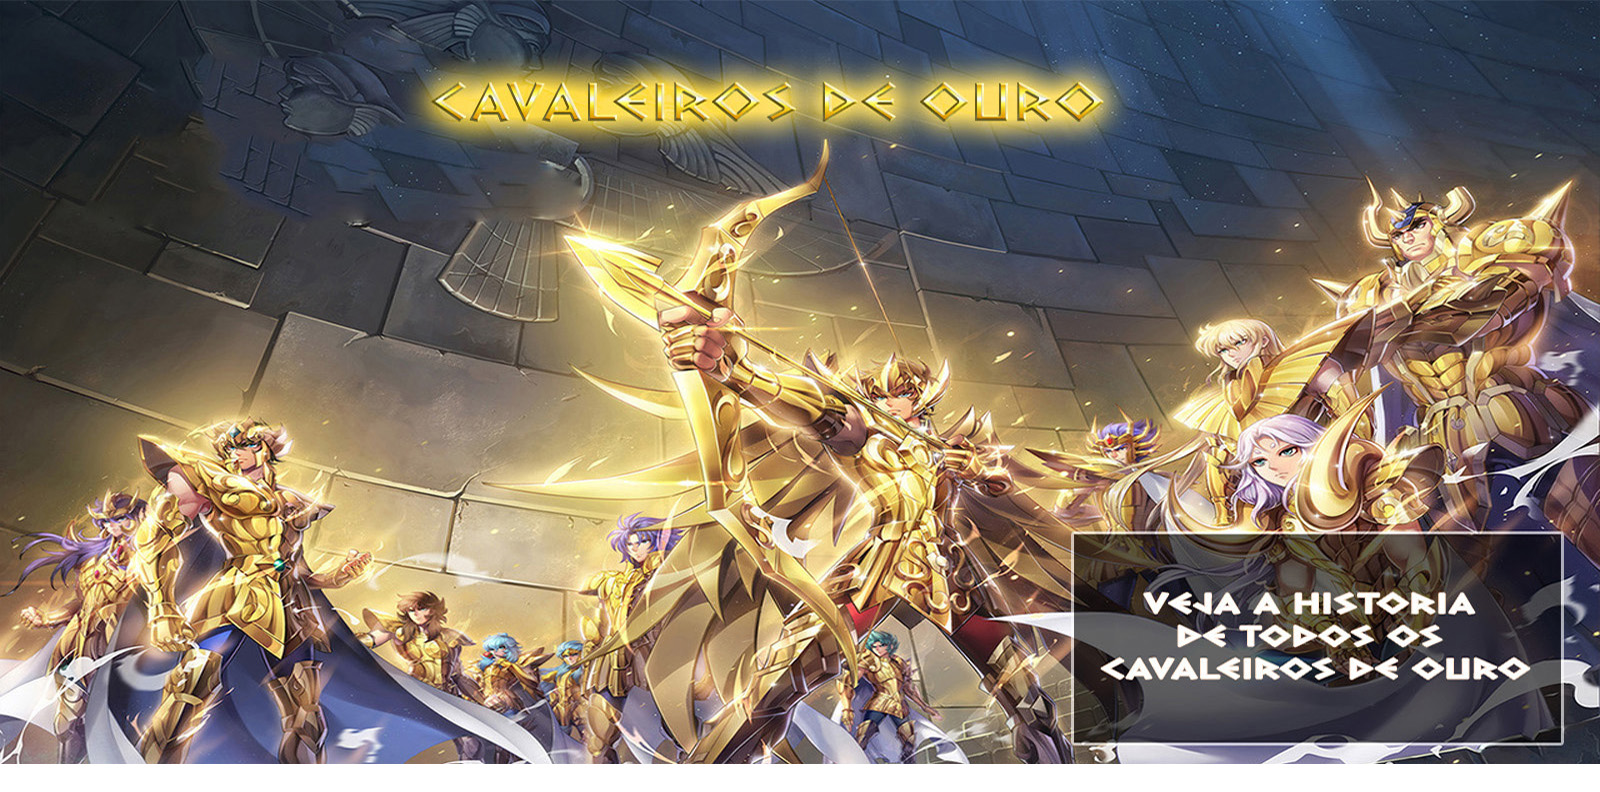
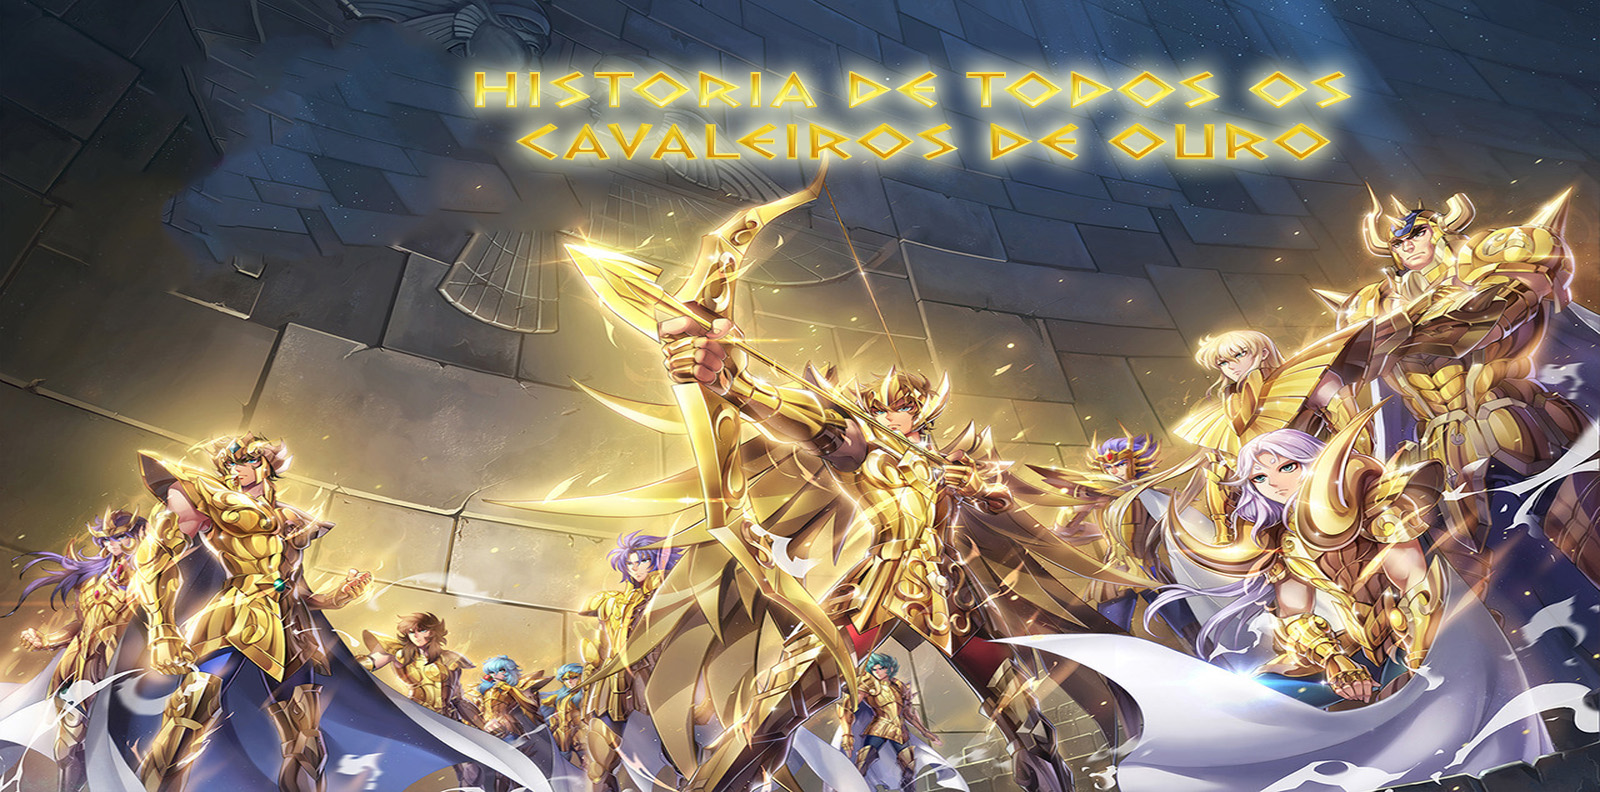
projeto-remodelado

diff --git a/modo-batalhaV3/index.html b/modo-batalhaV3/index.html
@@ -24,7 +24,9 @@
             </div>
         </div>
         </div>
+        <script src="script.js"></script>
     </main>
+    <script src="script.js"></script>
     <main class="modo-batalha">
         <main class="modo-versus modo-luta">
         <header class="cabecalho">
@@ -35,7 +37,7 @@
                 VS
             </h2>
         </header>
-        <div class="selecao-de-personagens">
+        <div id="selecao-de-guerreiros" class="selecao-de-personagens">
             <div class="personagem-grande personagem-jogador-1">
                 <img src="./src/imagens/seiya-de-pegaso.png" alt="Personagem selecionado jogador 1" id="personagem-jogador-1">
                 <div class="nome">
@@ -126,7 +128,7 @@
                 </li>
             </ul>
 
-            <div class="personagem-grande personagem-jogador-2">
+            <div id="personagem2" class="personagem-grande personagem-jogador-2">
                 <img src="./src/imagens/saga-de-gemeos.png" alt="Personagem selecionado jogador 2" id="personagem-jogador-2">
                 <div class="nome">
                     <img class="tabula-romana" src="./src/imagens/tabuleta-de-pedra.png" alt="">
@@ -138,7 +140,7 @@
     </main>
     
     <!--SELEÇÃO DE CENARIOS-->
-    <main class="selecao-de-niveis">
+    <main id="selecao-de-nivel" class="selecao-de-niveis">
         <header class="cabecalho-de-cenarios">
             <h1 class="titulo-de-cenarios">
                Selecionar<br><span>nivel</span> 
@@ -147,13 +149,13 @@
         <div class="selecao-de-cenarios">
             <div class="cenario-grande cenario-cenario-1">
                 <img src="./src/cenarios/santuario.jpg" alt="cenario selecionado cenario 1" id="cenario-cenario-1">
-                <div class="nome">
+                <div class="nome" id="logo-do-cenario">
                     <img src="./src/cenarios/logo-do-nome.png" alt="">
                     <h2 id="nome-cenario-1">Santuario</h2>
                 </div>
             </div>
 
-            <ul class="lista-de-cenarios">
+            <ul class="lista-de-cenarios" id="lista-dos-cenarios">
                 <li class="cenario selecionado" id="santuario" data-name="Santuario">
                     <img src="./src/cenarios/santuario.jpg" alt="cenario santuario">
                 </li>
@@ -183,12 +185,10 @@
         </div>
     </main>
 
-
     <div class="musicas-versus">
         <video class="audio-batalha" src="./musicas/saint seiya musicas agresive.mp4"></video>
         <audio class="audio-selecao" src="./musicas/4- Vento Lento.mp3"></audio>
         <audio class="audio-select" src="./musicas/Som de Trovão2.mp3"></audio>
-        <!-- <button id="start">start</button> -->
     </div>
     <div class="botoes-de-decisao">
         <button class="botao-voltar">Voltar</button>

diff --git a/modo-batalhaV3/src/css/estilos.css b/modo-batalhaV3/src/css/estilos.css
@@ -129,7 +129,7 @@
     justify-content: center;
     text-align: center;
     transition: all 0.4s;
-    display:none;
+    display: none;
 }
 .menu:hover {
     transition: all 0.4s;
@@ -182,13 +182,18 @@ main {
 
 .cabecalho .titulo2 {
     color: var(--cor-titulo-fraco);
-    -webkit-text-stroke: 2px red;
+    -webkit-text-stroke: 2px rgb(255, 85, 0);
     position: absolute;
-    top: 30%;
+    top: 20%;
     font-size: 150px;
     display: none;
     margin: 50px;
     transition: all 3s;
+    font-family: 'ssf4';
+    font-weight: bold;
+    text-shadow: 0.1em 0.1em 0.1em rgb(255, 85, 0),
+    0.1em 0.1em 0.1em rgb(255, 85, 0),
+    0.1em 0.1em 0.1em rgb(255, 85, 0);
 }
 
 .selecao-de-personagens {
@@ -339,6 +344,7 @@ main {
 .selecao-de-niveis{
     background-image: url(../cenarios/milky-way.jpg);
     display: none;
+    background-size: cover;
 }
 .cabecalho-de-cenarios{
     z-index: 1;
@@ -348,7 +354,7 @@ main {
 
 .cabecalho-de-cenarios .titulo-de-cenarios {
     position: absolute;
-    left: 14%;
+    left: 18%;
     top: 7%;
     color: var(--cor-titulo-fraco);
     text-transform: uppercase;
@@ -390,6 +396,7 @@ main {
     transform: translate(-50%, -50%);
     border-radius: 8px;
     border: 5px solid white;
+    transition: all 0.4s;
 }
 
 
@@ -448,17 +455,13 @@ main {
 }
 
 .selecao-de-cenarios .lista-de-cenarios .cenario.selecionado {
-    /* border: 2px solid var(--cor-azul-media);
-    animation: c-glowing-blue .3s ease-in-out infinite;
-    animation-direction: alternate; */
     transition: all 0.4s;
 }
 
 
 .selecao-de-cenarios .lista-de-cenarios .cenario:hover {
-    /* animation: c-glowing-blue .3s ease-in-out infinite;
-    animation-direction: alternate; */
     transition: all 0.4s;
     transform: scale(1.07);
     z-index: 2;
 }
+

diff --git a/modo-batalhaV3/src/js/index.js b/modo-batalhaV3/src/js/index.js
@@ -55,6 +55,8 @@ botaoir.onclick = function() {
     document.getElementsByClassName('selecao-de-niveis')[0].style.display="flex"
     botaoir = document.getElementsByClassName('botao-avancar')[0].style.display="none"
     botaovoltar = document.getElementsByClassName('botao-voltar')[0].style.display="none"
+    document.getElementsByClassName('botoes-de-decisao').style.display="none"
+    document.getElementsByClassName('tela-de-carregamento')[0].style.display="none"
 }
 
 
@@ -82,7 +84,7 @@ function iniciar() {
         document.getElementsByClassName('box')[0].style.display="none"
         document.getElementsByClassName('modo-versus')[0].style.display="block"
         document.getElementsByClassName('tela-de-carregamento')[0].style.display="none"
-        document.getElementsByClassName('menu')[0].style.display="inline"
+        document.getElementsByClassName('menu')[0].style.display="none"
         musica.play();
     }
 }
@@ -112,10 +114,14 @@ cenarios.forEach((cenario) => {
        nomecenario1.innerHTML = nomecenarioSeleceionado;
        somdeselecao.play();
     });
+    cenario.addEventListener('click', () => {
+        document.getElementsByClassName('cabecalho-de-cenarios')[0].style.display="none"
+        document.getElementById('logo-do-cenario').style.display="none"
+        document.getElementById('lista-dos-cenarios').style.display="none"
+    });
 });
 
 
-// document.getElementsByClassName('modo-luta')[0].style.position="absolute"
 
 
 

diff --git a/index.html b/index.html
@@ -58,7 +58,10 @@
                    <a href="./modo-batalhaV3/index.html"><li id="modo-versus" class="opcao">Versus</li></a>
                    <a href="./modo-zodiacoV1/index.html"><li id="modo-zodiaco" class="opcao">casas do zodiaco</li></a>
                    <li id="painel-de-opcoes" class="opcao">Opções</li>
-                   <a href="./sumario/index.html"><li id="sumario" class="opcao">Súmario</li></a>
+                   <button id="botaosumario">
+                       <li id="sumario" class="opcao">Súmario</li>
+                   </button>
+                  
                    
                </ul>
            </div>
@@ -67,6 +70,12 @@
            <button id="start">start</button>
        </main>
        <!--Menu-principal-->
+       <!--Creditos finais-->
+       <main class="creditos">
+           <div class="imagem-credito">
+               <img src="./src/imagems/tetalhes-do-projeto.jpg" alt="">
+           </div>
+       </main>
     <script src="script.js"></script>
 </body>
 </html>

diff --git a/script.js b/script.js
@@ -5,8 +5,10 @@ var loading = document.querySelector('.load')
 let audio = document.getElementsByClassName('musica')[0];
 var botaostartinicia = document.getElementById('start')
 const remover = document.querySelector('.tela-de-confirmacao')
+var botaosair = document.getElementById('botaosumario')
 var Interval;
 b = 0;
+
 
 botao.onload = function () {
     clearInterval(Interval);
@@ -34,6 +36,13 @@ botaostartinicia.onclick = function () {
     audio.play();
     document.getElementsByClassName('fundo-da-janela-de-start')[0].style.display="none"
     document.getElementsByClassName('conteudo1')[0].style.display="block"
+}
+
+botaosumario.onclick = function () {
+    document.body.style.backgroundColor="rgb(75, 74, 74)"
+    document.getElementsByClassName('conteudo1')[0].style.display="none"
+    document.body.style.overflowY="scroll"
+    document.getElementsByClassName('creditos')[0].style.display="inline"
 }
 
 

diff --git a/src/css/estilo.css b/src/css/estilo.css
@@ -2,8 +2,8 @@
 body {
     margin: 0;
     padding: 0;
-    overflow: hidden;
     font-family: 'Dalek Pinpoint';
+    overflow: hidden;
 }
 
 .tela-de-fundo-de-loading {
@@ -59,6 +59,7 @@ body {
 /*Menu-principal*/
 .conteudo1 {
     display:none;
+    overflow: hidden;
 }
 .tela-de-fundo-do-menu {
     width: 100%;
@@ -165,4 +166,25 @@ body {
 .iniciar-musica h1:hover {
     border-bottom: 1px solid #ffd700;
     border-top: 1px solid #ffd700;
+}
+
+.creditos {
+    display: none;
+    overflow-y: scroll;
+    background: gray;
+    width: 100%;
+}
+
+.imagem-credito {
+    position: absolute;
+    left: 20%;
+    top: 0%;
+}
+
+#botaosumario {
+    position: absolute;
+    background: transparent;
+    left: 9.5%;
+    top: 90%;
+    border: none;
 }

diff --git a/modo-batalhaV3/script.js b/modo-batalhaV3/script.js
@@ -1,0 +1,16 @@
+var musica = document.getElementsByClassName('audio-batalha')[0];
+
+function iniciar() {
+    if (b < 130) {
+        b++;
+        a.innerHTML=`${b}`
+        a.style.color='transparent'
+        loading.classList.add('preenchimento')
+    } else if (b == 130) {
+        document.getElementsByClassName('box')[0].style.display="none"
+        document.getElementsByClassName('modo-versus')[0].style.display="block"
+        document.getElementsByClassName('tela-de-carregamento')[0].style.display="none"
+        document.getElementsByClassName('menu')[0].style.display="none"
+        musica.play();
+    }
+}
